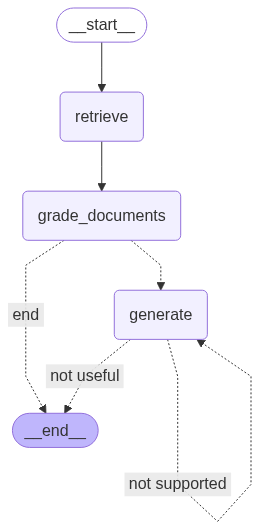
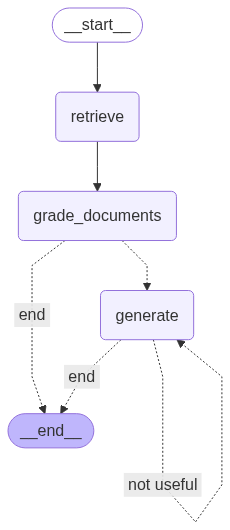
History state is added and will be stoped after 3 iteration

diff --git a/genai_docs_helper/nodes/generate.py b/genai_docs_helper/nodes/generate.py
@@ -4,10 +4,29 @@ from genai_docs_helper.chains.generation import generation_chain
 from genai_docs_helper.state import GraphState
 
 
+# def generate(state: GraphState) -> Dict[str, Any]:
+#     print("---GENERATE---")
+#     question = state["question"]
+#     documents = state["documents"]
+
+#     generation = generation_chain.invoke({"context": documents, "question": question})
+#     return {"documents": documents, "question": question, "generation": generation}
+
 def generate(state: GraphState) -> Dict[str, Any]:
     print("---GENERATE---")
     question = state["question"]
     documents = state["documents"]
-
     generation = generation_chain.invoke({"context": documents, "question": question})
-    return {"documents": documents, "question": question, "generation": generation}
+
+    history = state.get("history", [])
+    history.append(generation)
+
+    retry_count = state.get("retry_count", 0) + 1
+
+    return {
+        "documents": documents,
+        "question": question,
+        "generation": generation,
+        "history": history,
+        "retry_count": retry_count,
+    }

diff --git a/genai_docs_helper/graph.py b/genai_docs_helper/graph.py
@@ -24,9 +24,19 @@ def decide_to_generate(state):
 
 def grade_generation_grounded_in_documents_and_question(state: GraphState) -> str:
     print("---CHECK HALLUCINATIONS---")
+    
+    if state.get("retry_count", 0) >= 3:
+        print("---DECISION: MAX RETRIES REACHED. ENDING.---")
+        return "end"
+
     question = state["question"]
     documents = state["documents"]
     generation = state["generation"]
+
+    if len(documents) == 0:
+        print("---DECISION: NO DOCUMENTS TO GRADE AGAINST. RE-TRY---")
+        state["generation"] = "There are no documents to grade against. Please try again with a different question."
+        return "end"
 
     score = hallucination_grader.invoke({"documents": documents, "generation": generation})
 
@@ -69,7 +79,8 @@ workflow.add_conditional_edges(
     {
         "not supported": GENERATE,
         "useful": END,
-        "not useful": END,
+        "not useful": GENERATE,
+        "end": END,
     },
 )
 workflow.add_edge(GENERATE, END)

diff --git a/genai_docs_helper/state.py b/genai_docs_helper/state.py
@@ -15,3 +15,5 @@ class GraphState(TypedDict):
     question: str
     generation: str = ""
     documents: List[str]
+    history: List[str] = []
+    retry_count: int = 0
